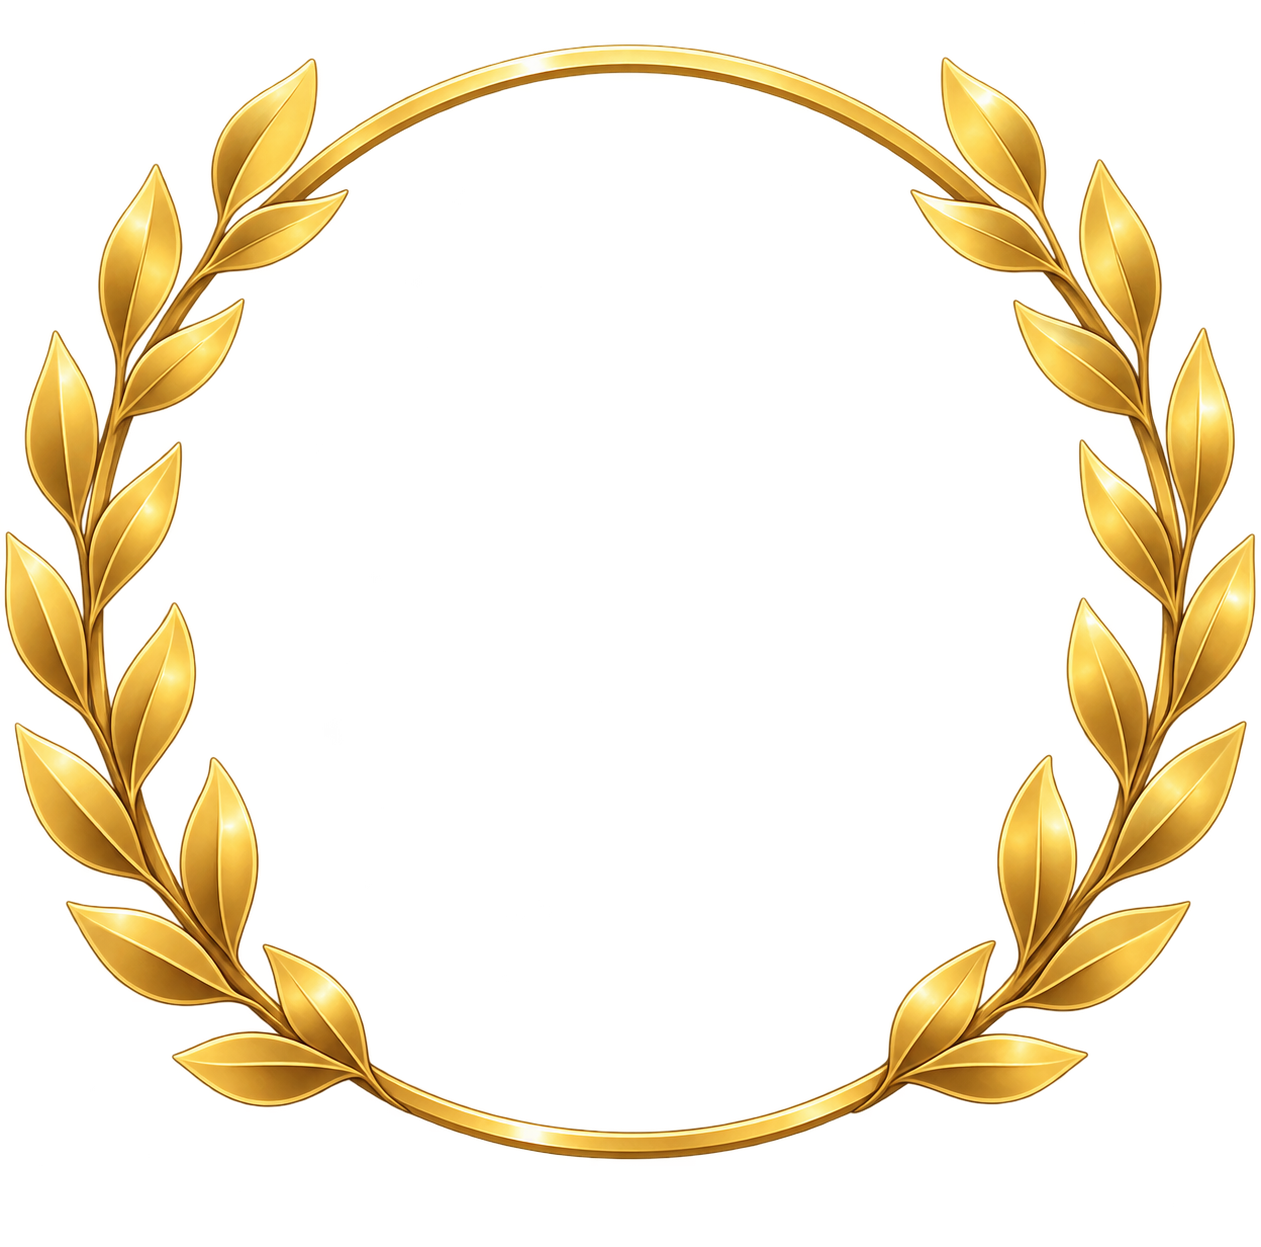
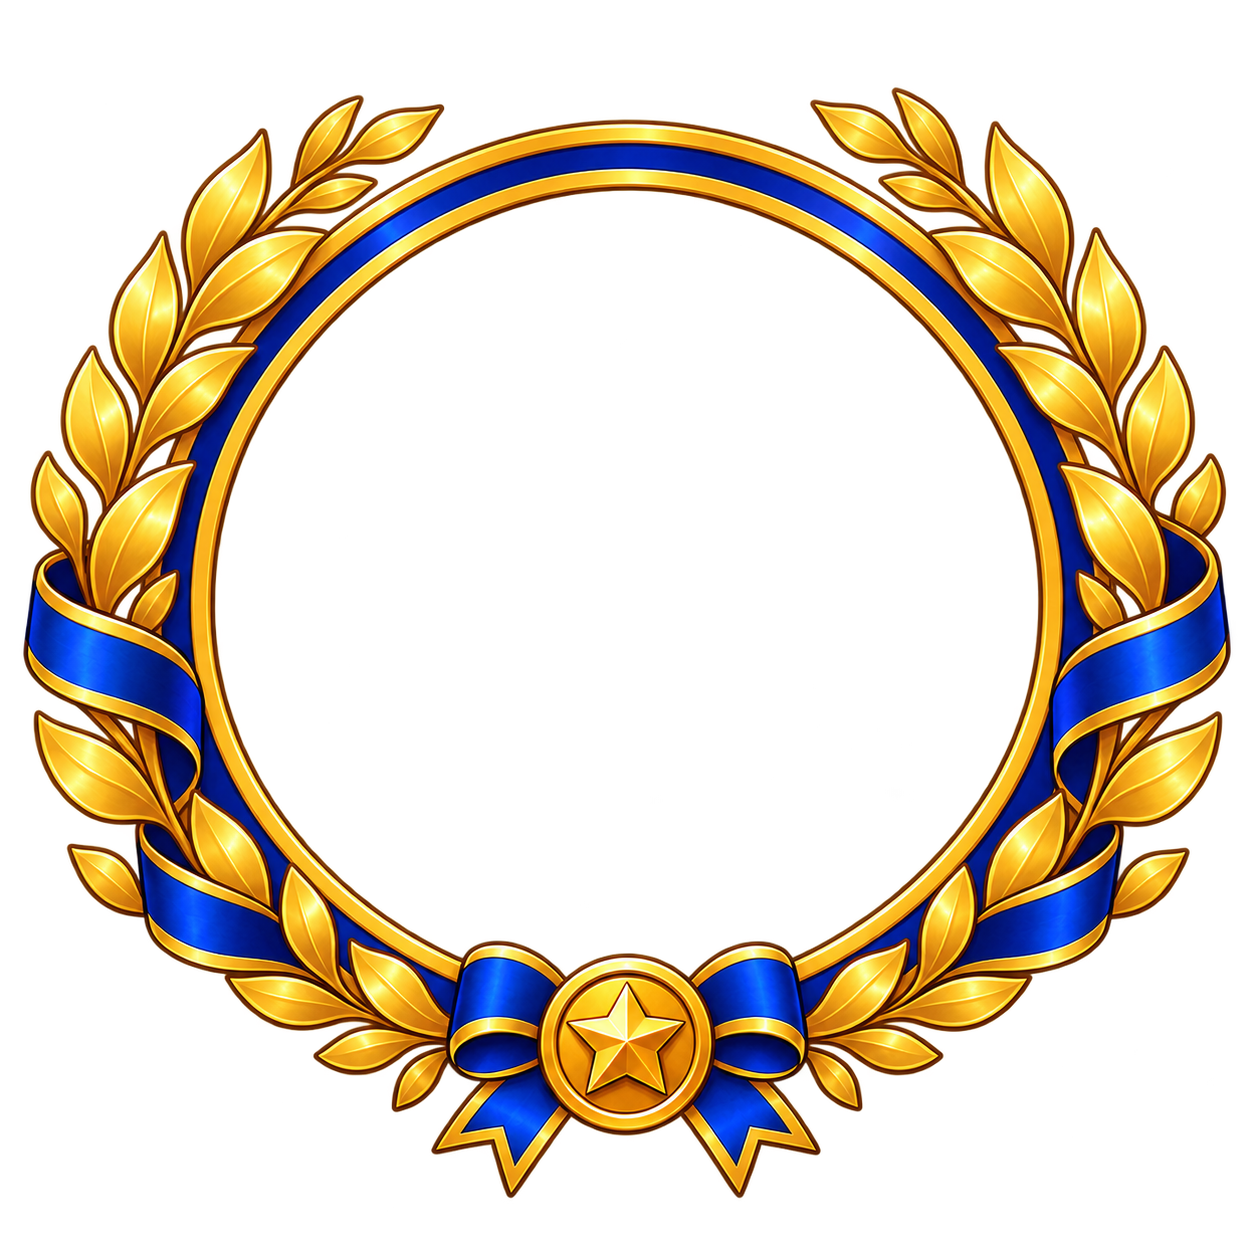
.

diff --git a/loja/loja.css b/loja/loja.css
@@ -1336,7 +1336,7 @@ footer {
 
 .item-imagem[src$="/campeao.png"],
 .modal-item-imagem[src$="/campeao.png"] {
-    --escala-moldura: 0.72;
+    --escala-moldura: 0.9;
 }
 
 .item-imagem[src$="/dragao.png"],
